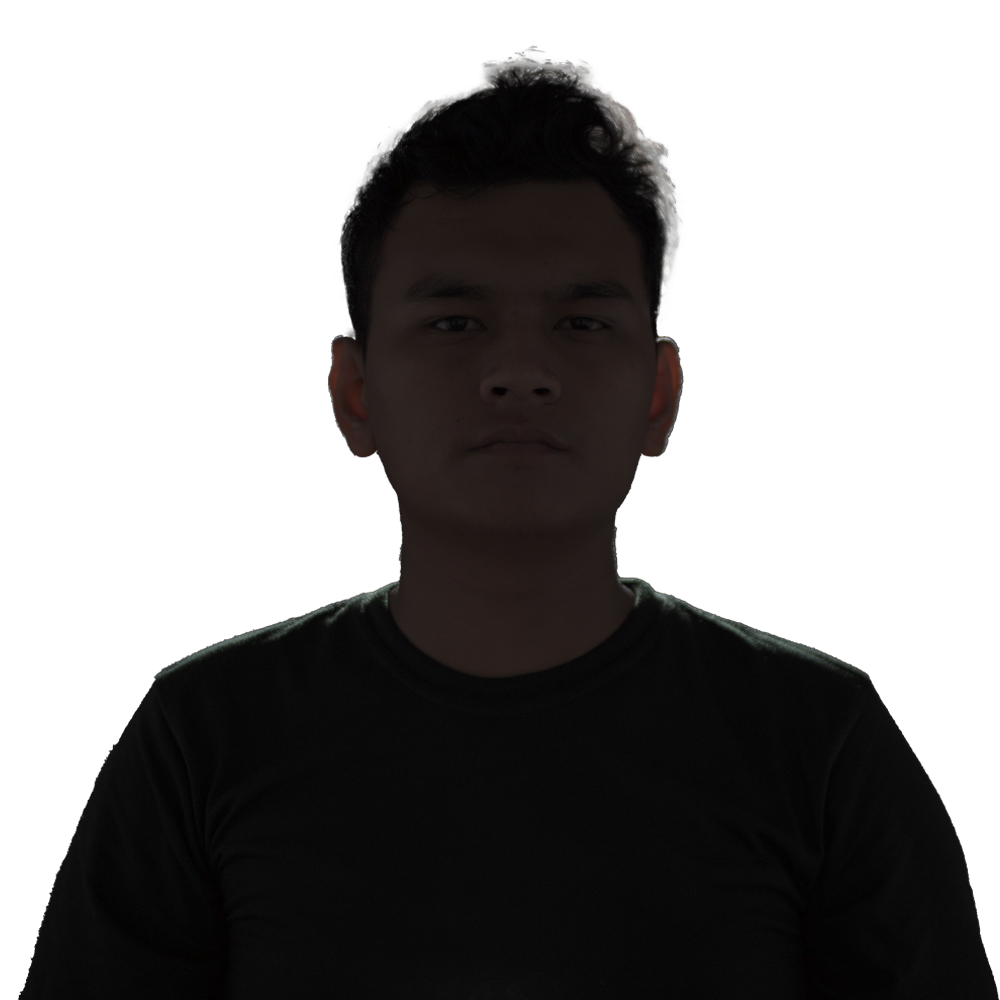
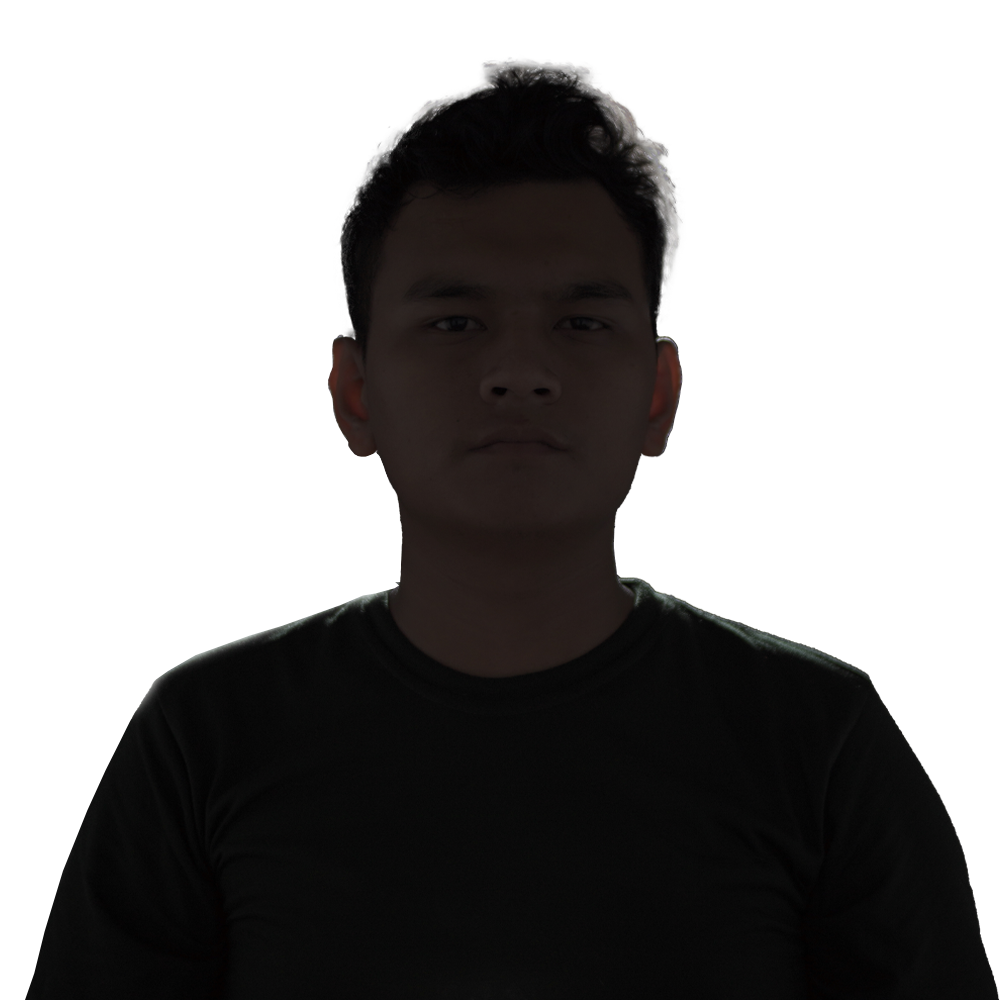
PHOTO DONE

diff --git a/app/components/about.tsx b/app/components/about.tsx
@@ -46,16 +46,16 @@ export default function About() {
 
                             <div className="relative aspect-[4/5] overflow-hidden rounded-[2rem] border border-border/50 bg-card/50 backdrop-blur-sm">
 
-                                {/* <div className="absolute inset-0 z-0">
+                                <div className="absolute inset-0 z-0 dark:hidden">
                                     <Image
                                         src="/images/landing/background.png"
                                         alt="Background"
                                         fill
                                         className="object-cover brightness-50"
                                     />
-                                </div> */}
+                                </div>
 
-                                <div className="absolute inset-0 bg-gradient-to-t from-background via-transparent to-transparent opacity-80 z-[10]" />
+                                <div className="absolute inset-0 bg-gradient-to-r from-background/20 via-transparent to-transparent opacity-0 group-hover:opacity-80 z-[10] transition-opacity duration-1000" />
 
                                 <div className="absolute inset-0 z-[20]">
                                     <Image
@@ -70,6 +70,7 @@ export default function About() {
                                     className="absolute inset-0 z-[30]"
                                     initial={{ opacity: 0 }}
                                     whileHover={{ opacity: 1 }}
+                                    whileTap={{ opacity: 1 }}
                                     transition={{ duration: 0.5 }}
                                 >
                                     <Image
